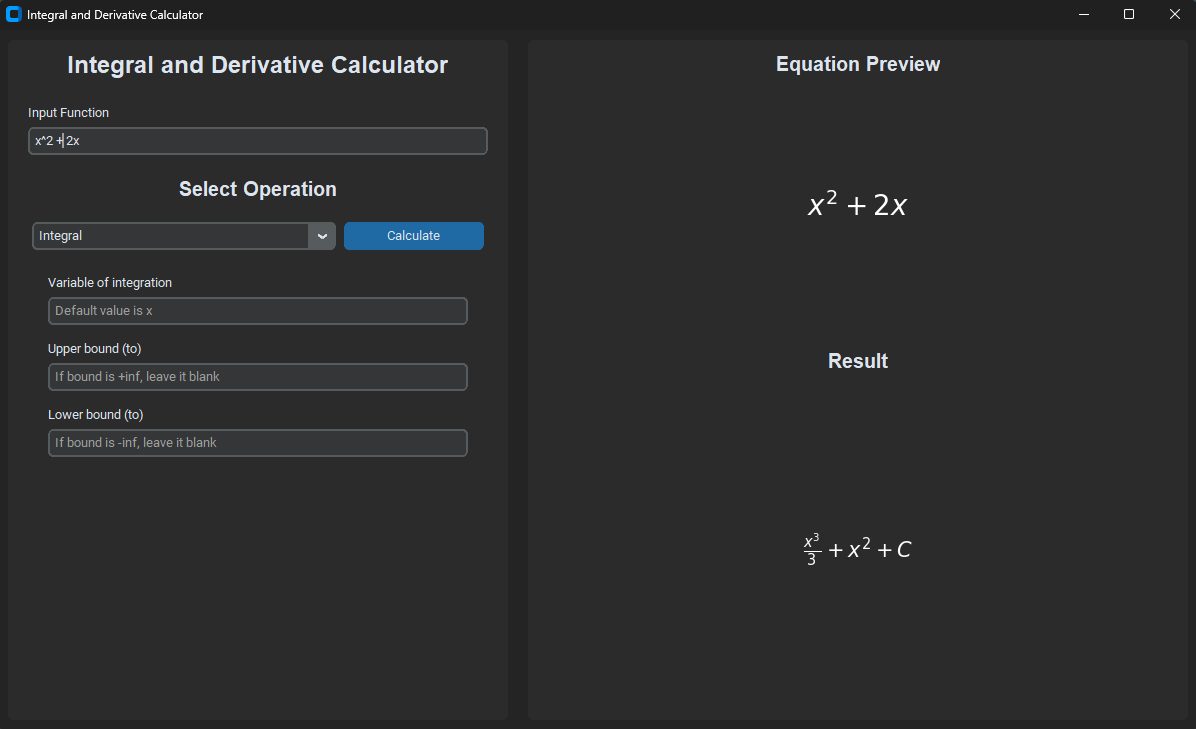
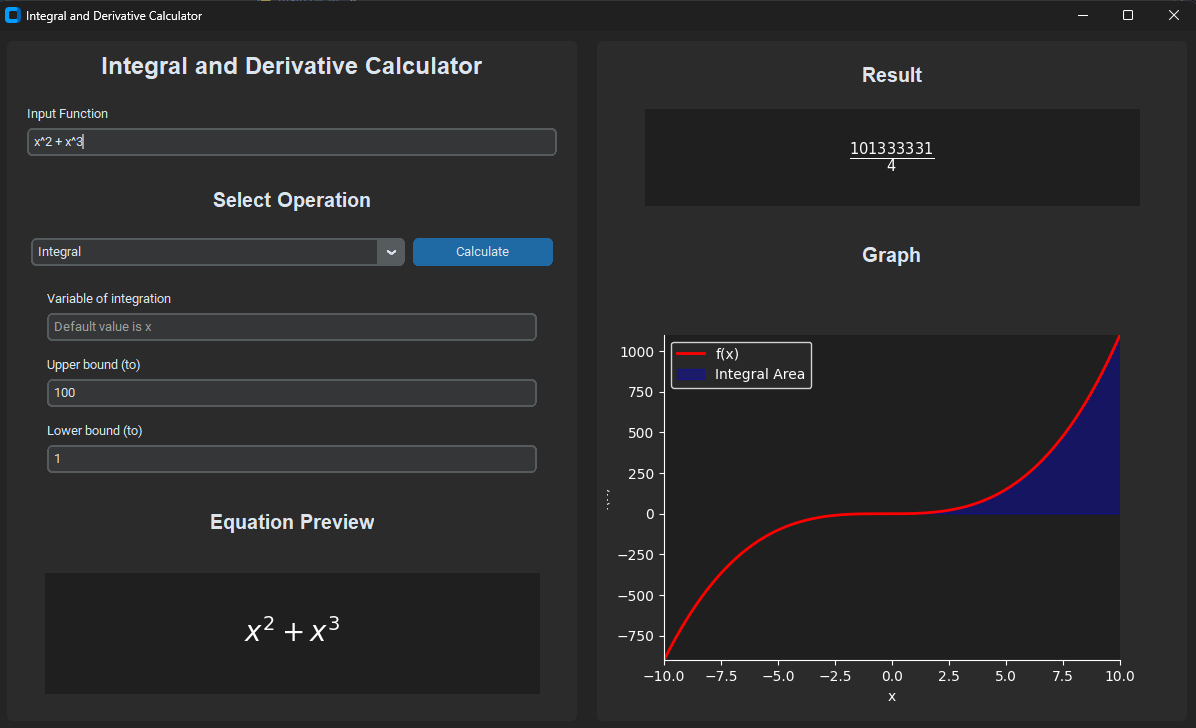
Graphing now works!

diff --git a/main.py b/main.py
@@ -221,7 +221,8 @@ class ShowEquation(ctk.CTkFrame):
 class ShowGraph(ctk.CTkFrame):
     def __init__(self, parent, entry_widget, select_operation):
         super().__init__(parent)
-        
+        self.pack(fill="both", expand=True, padx=10, pady=20) 
+
         self.select_operation = select_operation
         self.entry_widget = entry_widget
         self.entry_widget.main_entry.bind("<KeyRelease>", self.graph_equation)
@@ -245,9 +246,11 @@ class ShowGraph(ctk.CTkFrame):
         self.wx.tick_params(axis="y", colors="white")
         plt.rcParams["text.color"] = "white"
 
-    def graph_equation(self, event=None):
-        print("graph equation called")
+    def graph_equation(self):
+        print("Graph equation triggered")
+
         try:
+            self.wx.clear()
             function_text = self.entry_widget.get_value()
             if not function_text:
                 return
@@ -257,12 +260,19 @@ class ShowGraph(ctk.CTkFrame):
             var_name = self.select_operation.var_entry.get_value() or "x"
             var = sp.symbols(var_name)
 
+            # Define x and y ranges
             x_vals = np.linspace(-10, 10, 500)
             y_vals = [float(expr.subs(var, x_val)) for x_val in x_vals]
 
+            # Ensure the plot is reset
             self.wx.clear()
+            self.wx.set_xlim(-10, 10)
+            self.wx.set_ylim(min(y_vals) - 1, max(y_vals) + 1)
+
+            # Plot the function
             self.wx.plot(x_vals, y_vals, label="f(x)", color="red", linewidth=2)
 
+            # Optional: Fill the area for integrals
             if self.select_operation.operation == "Integral":
                 lower = self.select_operation.lower_entry.get_value()
                 upper = self.select_operation.upper_entry.get_value()
@@ -274,14 +284,18 @@ class ShowGraph(ctk.CTkFrame):
                     y_fill = [float(expr.subs(var, x_val)) for x_val in x_fill]
                     self.wx.fill_between(x_fill, y_fill, color="blue", alpha=0.3, label="Integral Area")
 
-            self.wx.legend(loc="upper left", fontsize=10, facecolor="#2b2b2b", edgecolor="white")
+            # Re-draw the canvas and set axis labels
             self.wx.set_xlabel(var_name, color="white")
             self.wx.set_ylabel("f(x)", color="white")
+            self.wx.legend(loc="upper left", fontsize=10, facecolor="#2b2b2b", edgecolor="white")
+
             self.canvas.draw()
 
         except Exception as e:
             print(f"Error in graphing: {e}")
-   
+
+
+    
 # Main application class
 class App(ctk.CTk):
     def __init__(self):
